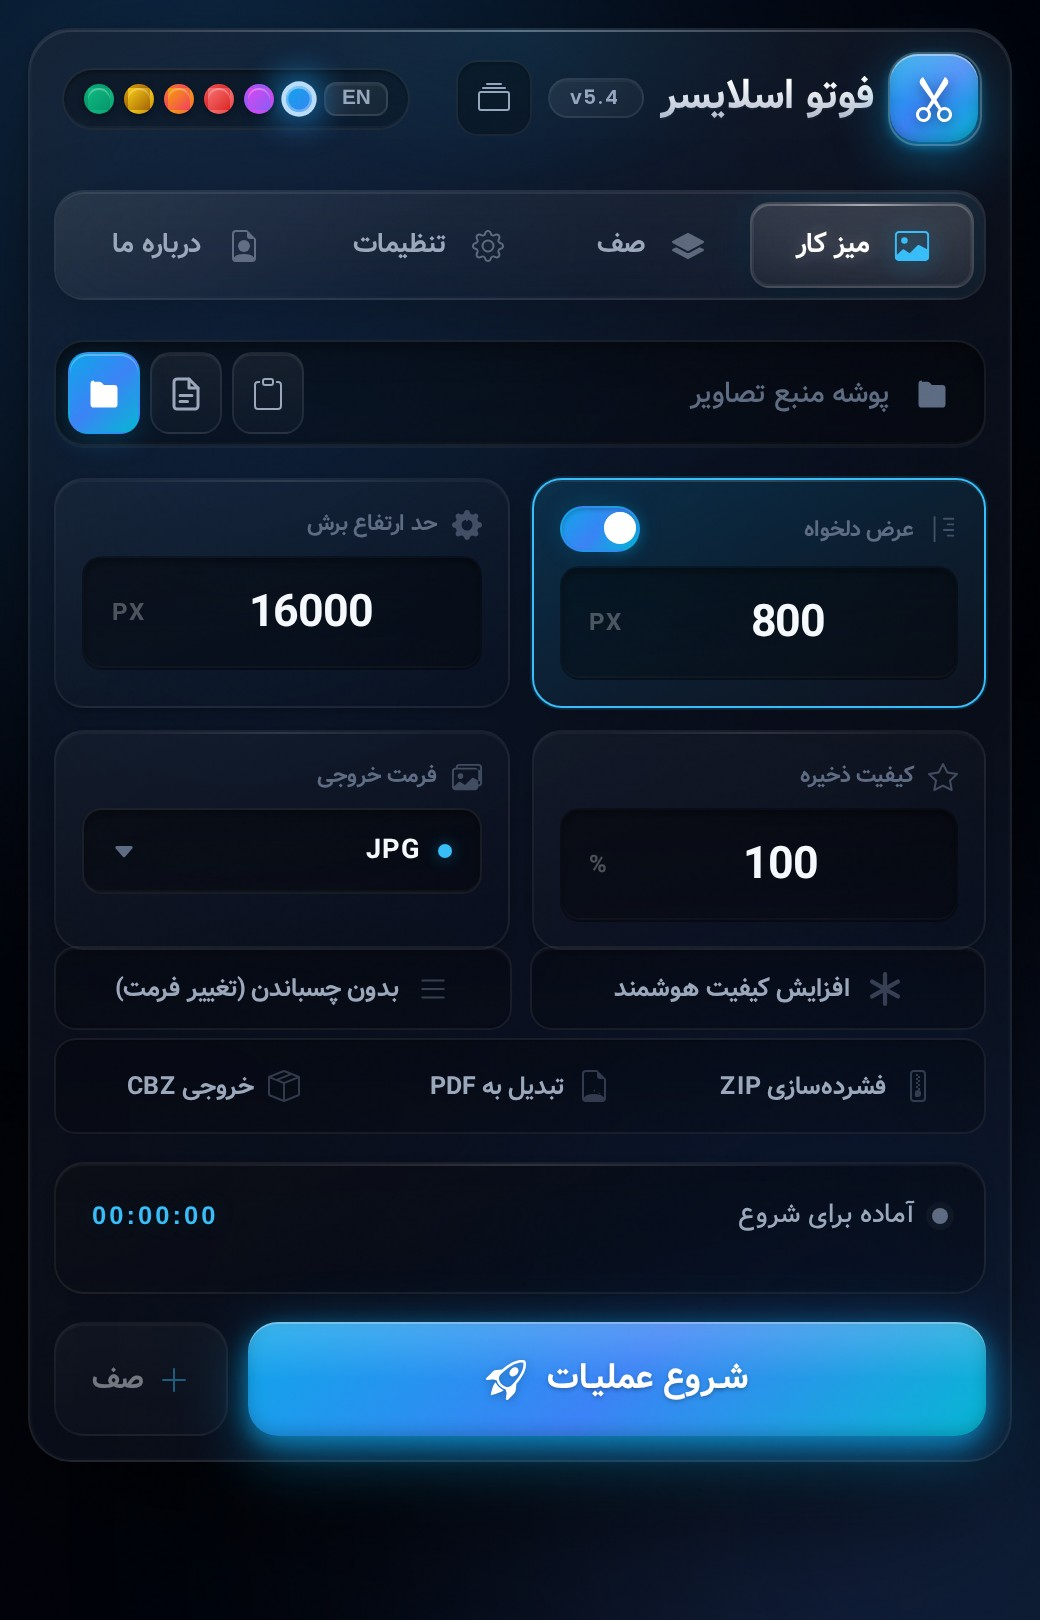
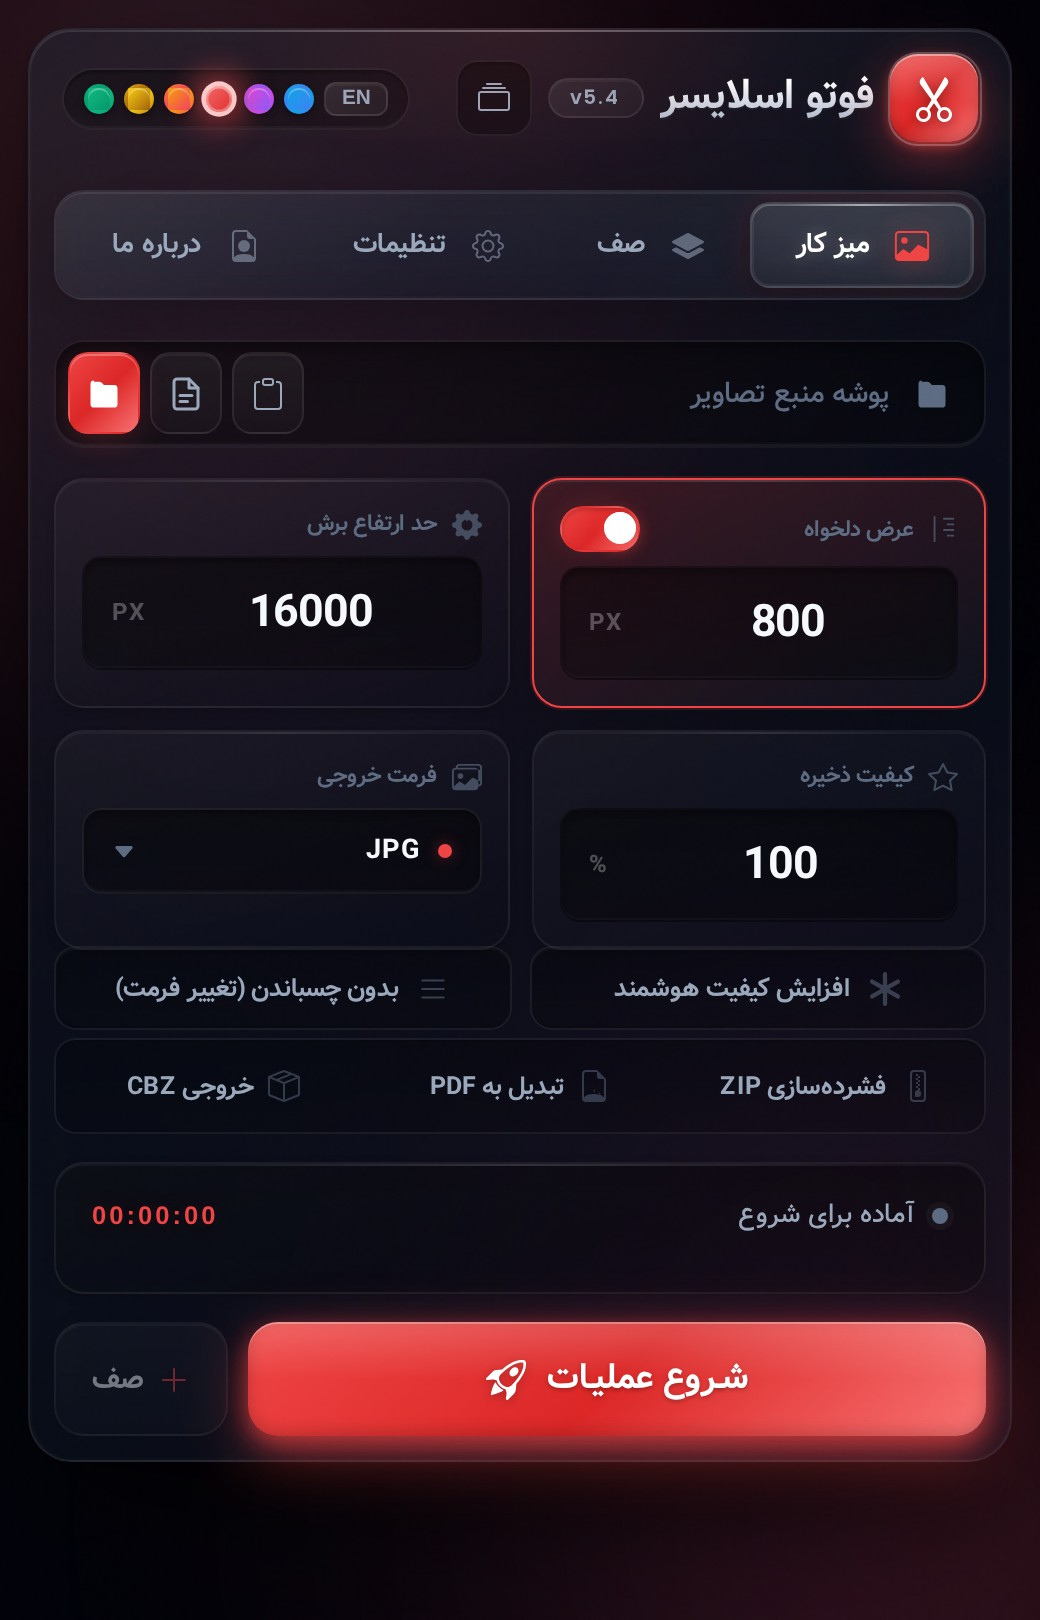
docs: use the red (ruby) theme for the README screenshots
The screenshot generator now defaults to the ruby theme, so both the images
committed here and the ones the CI job refreshes on every run are red.
SHOT_THEME still selects any other theme.

diff --git a/scripts/screenshot/README.md b/scripts/screenshot/README.md
@@ -19,7 +19,8 @@ npx playwright install chromium
 node screenshot.mjs          # writes ../../assets/app-fa.jpg and app-en.jpg
 ```
 
-`SHOT_THEME` picks the colour theme (`blue` by default; also `purple`, `ruby`,
-`sunset`, `gold`, `emerald`) and `SHOT_OUT` changes the output folder. The
+`SHOT_THEME` picks the colour theme (`ruby`, the red one, by default; also
+`blue`, `purple`, `sunset`, `gold`, `emerald`) and `SHOT_OUT` changes the output
+folder. The
 output is deterministic, so an unchanged UI gives byte-identical files and
 produces no commit.
